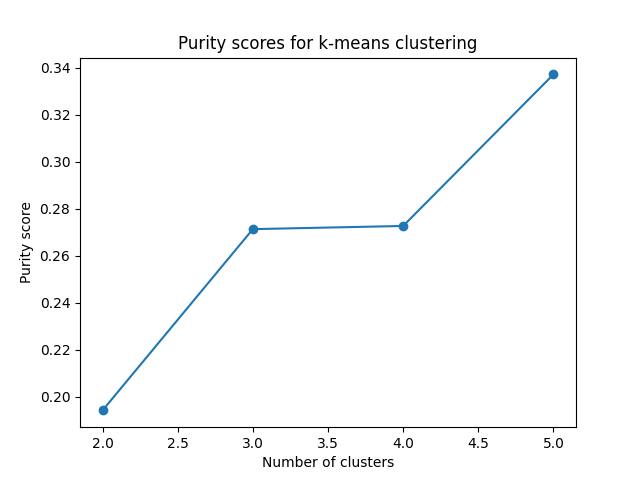
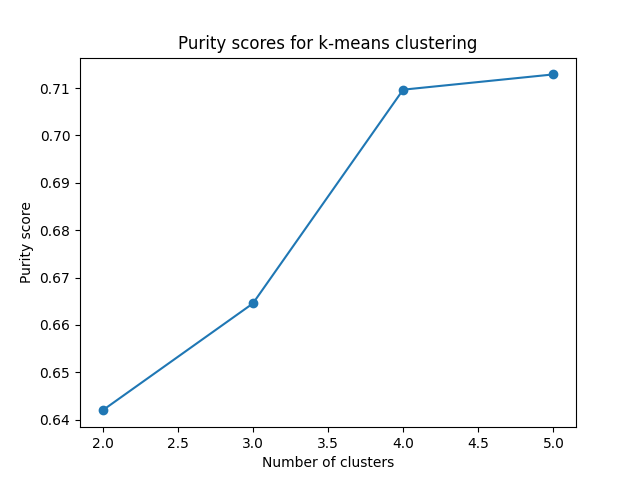
progamacao feita

diff --git a/Homework4/programming.py b/Homework4/programming.py
@@ -1,8 +1,10 @@
+import math
 import pandas as pd, numpy as np
 import matplotlib.pyplot as plt
 from sklearn import datasets, metrics, cluster, mixture
 from scipy.io.arff import loadarff
 from sklearn.preprocessing import MinMaxScaler
+from sklearn.decomposition import PCA
 
 # Reading the ARFF file
 data = loadarff('column_diagnosis.arff')
@@ -17,37 +19,75 @@ target = df['class']
 scaler = MinMaxScaler()
 features_scaled = scaler.fit_transform(features)
 
-########## Exercise 1 ##########
+# ########## Exercise 1 ##########
 
-# Apply k-means clustering with k=2,3,4,5
-kmeans2 = cluster.KMeans(n_clusters=2, random_state=0).fit(features_scaled)
-kmeans3 = cluster.KMeans(n_clusters=3, random_state=0).fit(features_scaled)
-kmeans4 = cluster.KMeans(n_clusters=4, random_state=0).fit(features_scaled)
-kmeans5 = cluster.KMeans(n_clusters=5, random_state=0).fit(features_scaled)
+# # Apply k-means clustering with k=2,3,4,5
+# kmeans2 = cluster.KMeans(n_clusters=2, random_state=0).fit(features_scaled)
+# kmeans3 = cluster.KMeans(n_clusters=3, random_state=0).fit(features_scaled)
+# kmeans4 = cluster.KMeans(n_clusters=4, random_state=0).fit(features_scaled)
+# kmeans5 = cluster.KMeans(n_clusters=5, random_state=0).fit(features_scaled)
 
-y_pred2 = kmeans2.labels_
-y_pred3 = kmeans3.labels_
-y_pred4 = kmeans4.labels_
-y_pred5 = kmeans5.labels_
+# y_pred2 = kmeans2.labels_
+# y_pred3 = kmeans3.labels_
+# y_pred4 = kmeans4.labels_
+# y_pred5 = kmeans5.labels_
 
-# Assess silhouette and purity scores for each clustering
-silhouette2 = metrics.silhouette_score(features_scaled, y_pred2)
-silhouette3 = metrics.silhouette_score(features_scaled, y_pred3)
-silhouette4 = metrics.silhouette_score(features_scaled, y_pred4)
-silhouette5 = metrics.silhouette_score(features_scaled, y_pred5)
+# # Assess silhouette and purity scores for each clustering
+# silhouette2 = metrics.silhouette_score(features_scaled, y_pred2)
+# silhouette3 = metrics.silhouette_score(features_scaled, y_pred3)
+# silhouette4 = metrics.silhouette_score(features_scaled, y_pred4)
+# silhouette5 = metrics.silhouette_score(features_scaled, y_pred5)
+
+# def purity_score(y_true, y_pred):
+#     # compute contingency/confusion matrix
+#     confusion_matrix = metrics.cluster.contingency_matrix(y_true, y_pred)
+#     return np.sum(np.amax(confusion_matrix, axis=0)) / np.sum(confusion_matrix) 
+
+# purity2 = purity_score(target, y_pred2)
+# purity3 = purity_score(target, y_pred3)
+# purity4 = purity_score(target, y_pred4)
+# purity5 = purity_score(target, y_pred5)
+
+# #Plot Silhouette
+# silhouettes = [silhouette2, silhouette3, silhouette4, silhouette5]
+# plt.plot([2,3,4,5], silhouettes, 'o-')
+# plt.title('Silhouette scores for k-means clustering')
+# plt.xlabel('Number of clusters')
+# plt.ylabel('Silhouette score')
+# plt.savefig('ex1_silhouette.png')
+# plt.show()
+
+# #Plot Purity
+# purities = [purity2, purity3, purity4, purity5]
+# plt.plot([2,3,4,5], purities, 'o-')
+# plt.title('Purity scores for k-means clustering')
+# plt.xlabel('Number of clusters')
+# plt.ylabel('Purity score')
+# plt.savefig('ex1_purity.png')
+# plt.show()
+
+### Exercise 1 ###
 
 def purity_score(y_true, y_pred):
     # compute contingency/confusion matrix
     confusion_matrix = metrics.cluster.contingency_matrix(y_true, y_pred)
     return np.sum(np.amax(confusion_matrix, axis=0)) / np.sum(confusion_matrix) 
 
-purity2 = purity_score(target, y_pred2)
-purity3 = purity_score(target, y_pred3)
-purity4 = purity_score(target, y_pred4)
-purity5 = purity_score(target, y_pred5)
-
+silhouettes = []
+purities = []
+for k in range(2, 6):
+    kmeans_algo = cluster.KMeans(n_clusters=k, random_state=0 , n_init= 'auto')
+    kmeans_model = kmeans_algo.fit(features_scaled)
+    target_pred = kmeans_model.labels_
+    purity = purity_score(target, target_pred)
+    silhouette = metrics.silhouette_score(features_scaled, target_pred)
+    silhouettes.append(silhouette)
+    purities.append(purity)
+    
+    print("Purity score for k = " , str(k) , " is " , purity)
+    print("Silhouette score for k = " , str(k) , " is " , silhouette)
+    
 #Plot Silhouette
-silhouettes = [silhouette2, silhouette3, silhouette4, silhouette5]
 plt.plot([2,3,4,5], silhouettes, 'o-')
 plt.title('Silhouette scores for k-means clustering')
 plt.xlabel('Number of clusters')
@@ -56,13 +96,75 @@ plt.savefig('ex1_silhouette.png')
 plt.show()
 
 #Plot Purity
-purities = [purity2, purity3, purity4, purity5]
 plt.plot([2,3,4,5], purities, 'o-')
 plt.title('Purity scores for k-means clustering')
 plt.xlabel('Number of clusters')
 plt.ylabel('Purity score')
 plt.savefig('ex1_purity.png')
 plt.show()
+    
+### Exercise 2 ###
 
+pca = PCA(n_components=2)
+pca.fit(features_scaled)
+X_pca = pca.transform(features_scaled)
 
+print("Components (eigenvectors):\n",pca.components_)
+print("Explained variance (eigenvalues) =",pca.explained_variance_)
+print("Explained variance (ratio) =",pca.explained_variance_ratio_)
 
+xvector = pca.components_[0] 
+yvector = pca.components_[1]
+
+columns = features.columns
+impt_features = {columns[i] : math.sqrt(xvector[i]**2 + yvector[i]**2) for i in range(len(columns))}
+print("Features by importance:\n", sorted(zip(impt_features.values(),impt_features.keys()),reverse=True))
+
+### Exercise 3 ###
+
+# i)
+plt.figure(figsize=(12,10))
+plt.plot(X_pca[target=='Normal', 0], X_pca[target=='Normal', 1], 'o', markersize=7, alpha=0.6, label='Normal')
+plt.plot(X_pca[target=='Hernia', 0], X_pca[target=='Hernia', 1], 'o', markersize=7, alpha=0.6, label='Hernia')
+plt.plot(X_pca[target=='Spondylolisthesis', 0], X_pca[target=='Spondylolisthesis', 1], 'o', markersize=7, alpha=0.6, label='Spondylolisthesis')
+
+plt.xlabel('PC1')
+plt.ylabel('PC2')
+plt.legend()
+plt.title('Ground diagnosis')
+plt.show()
+
+# ii)
+
+kmeans_algo = cluster.KMeans(n_clusters=3, random_state=0 , n_init= 'auto')
+kmeans_model = kmeans_algo.fit(features_scaled)
+target_pred = kmeans_model.labels_
+
+plt.figure(figsize=(12, 10))
+plt.scatter(X_pca[:,0], X_pca[:,1], c=target_pred, alpha=0.6)
+
+plt.xlabel('PC1')
+plt.ylabel('PC2')
+plt.legend()
+plt.title('𝑘 = 3 clustering solution')
+plt.show()
+
+# iii)
+
+cluster_mapping = pd.DataFrame({'Cluster': target_pred, 'Class': target})
+
+# Calculate the mode class for each cluster
+cluster_mode = cluster_mapping.groupby('Cluster')['Class'].agg(lambda x: x.mode().iat[0])
+
+for cluster in set(target_pred):
+    data = X_pca[target_pred == cluster]
+    plt.scatter(data[:, 0], data[:, 1], label=f'Cluster {cluster}', alpha=0.6)
+
+plt.title('K-means Clustering')
+
+# Create a legend using the calculated mode class for each cluster
+legend_labels = [f'Cluster {cluster}: {mode_class}' for cluster, mode_class in cluster_mode.items()]
+plt.legend(legend_labels)
+
+# Show the plot
+plt.show()
